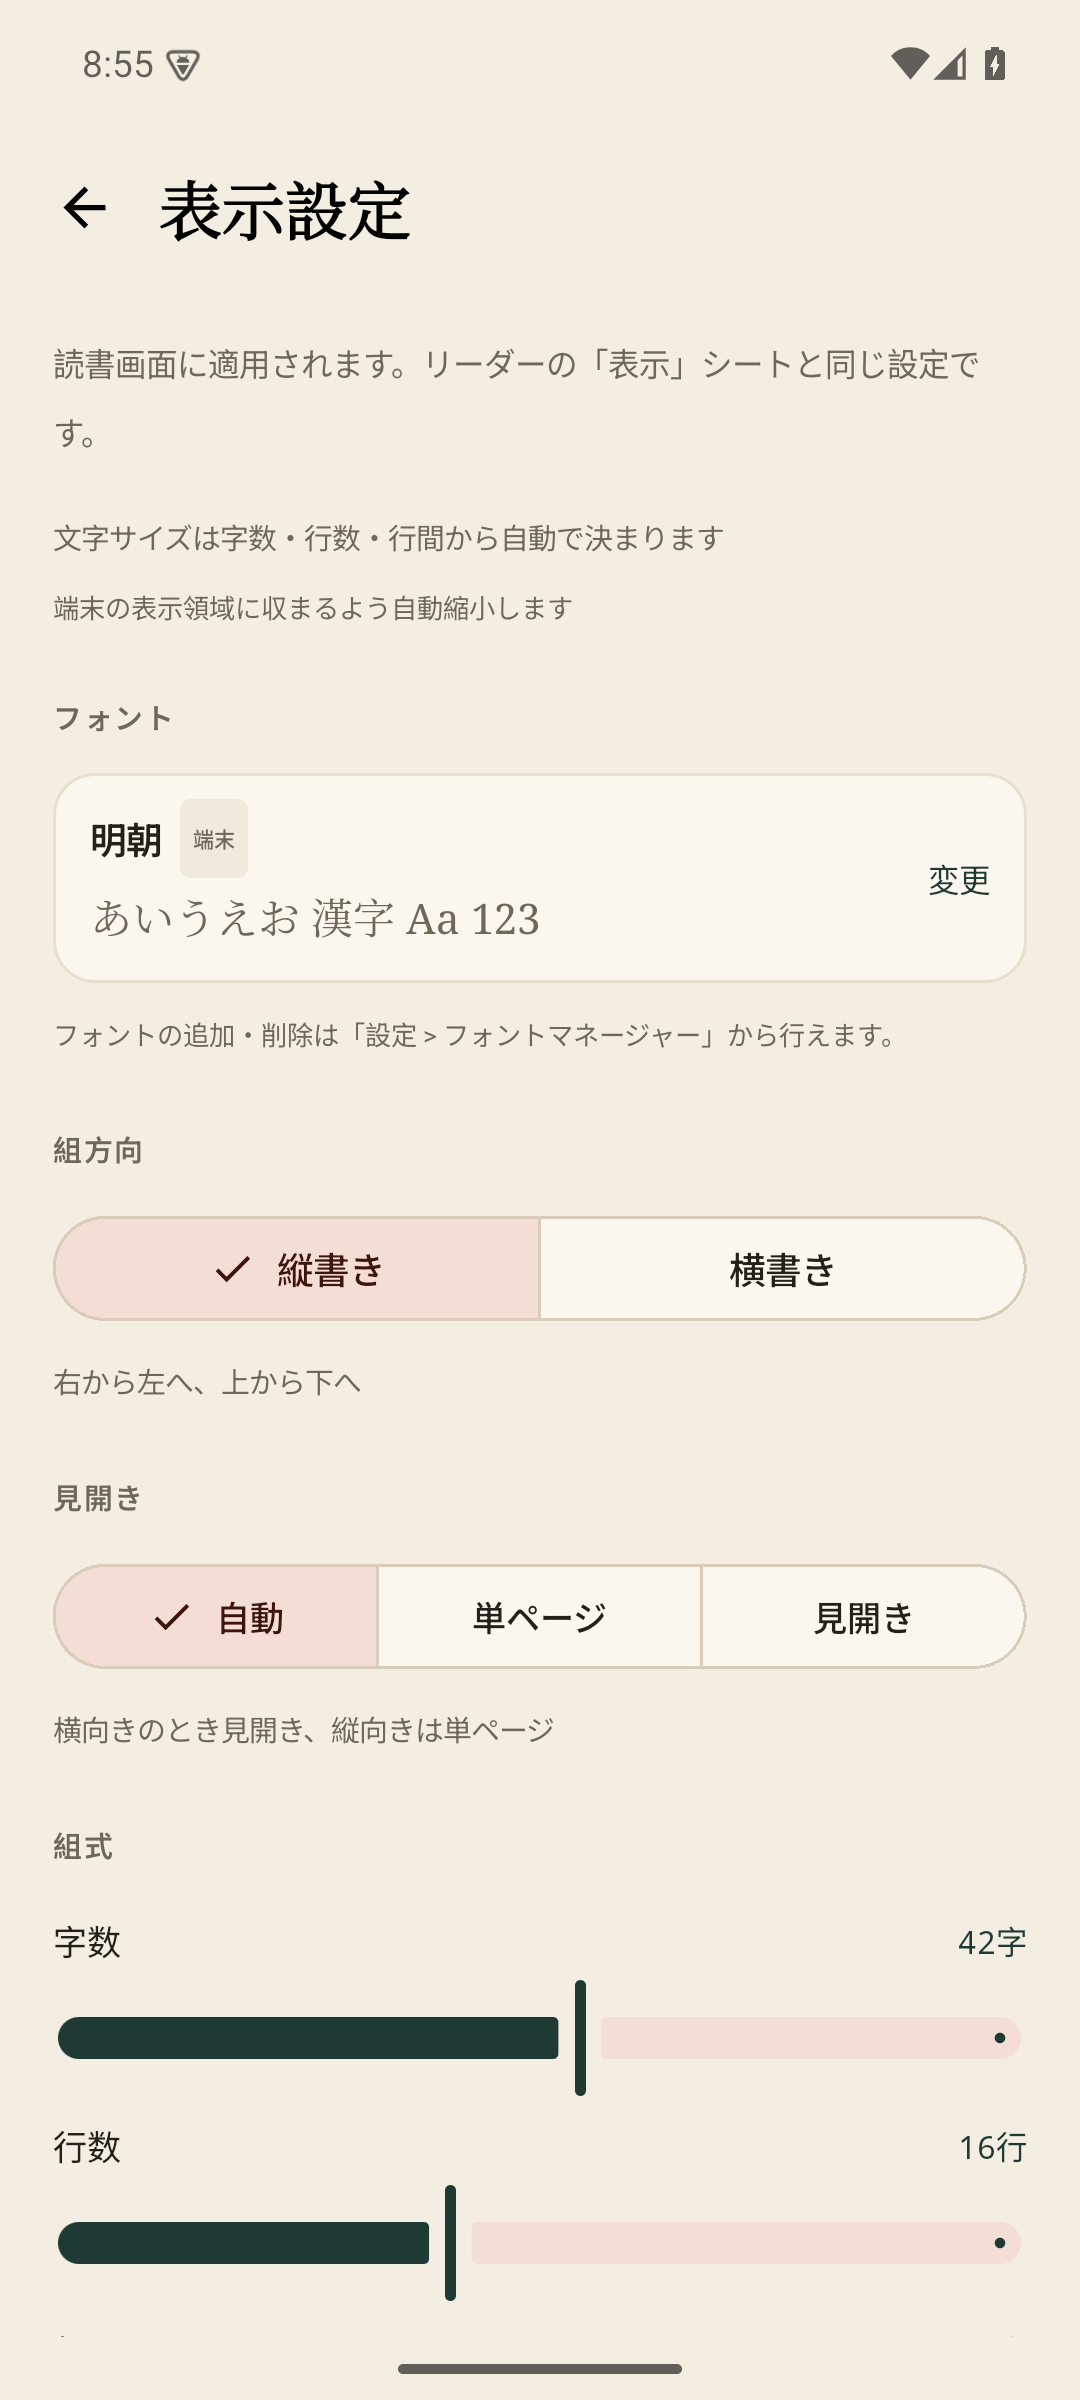
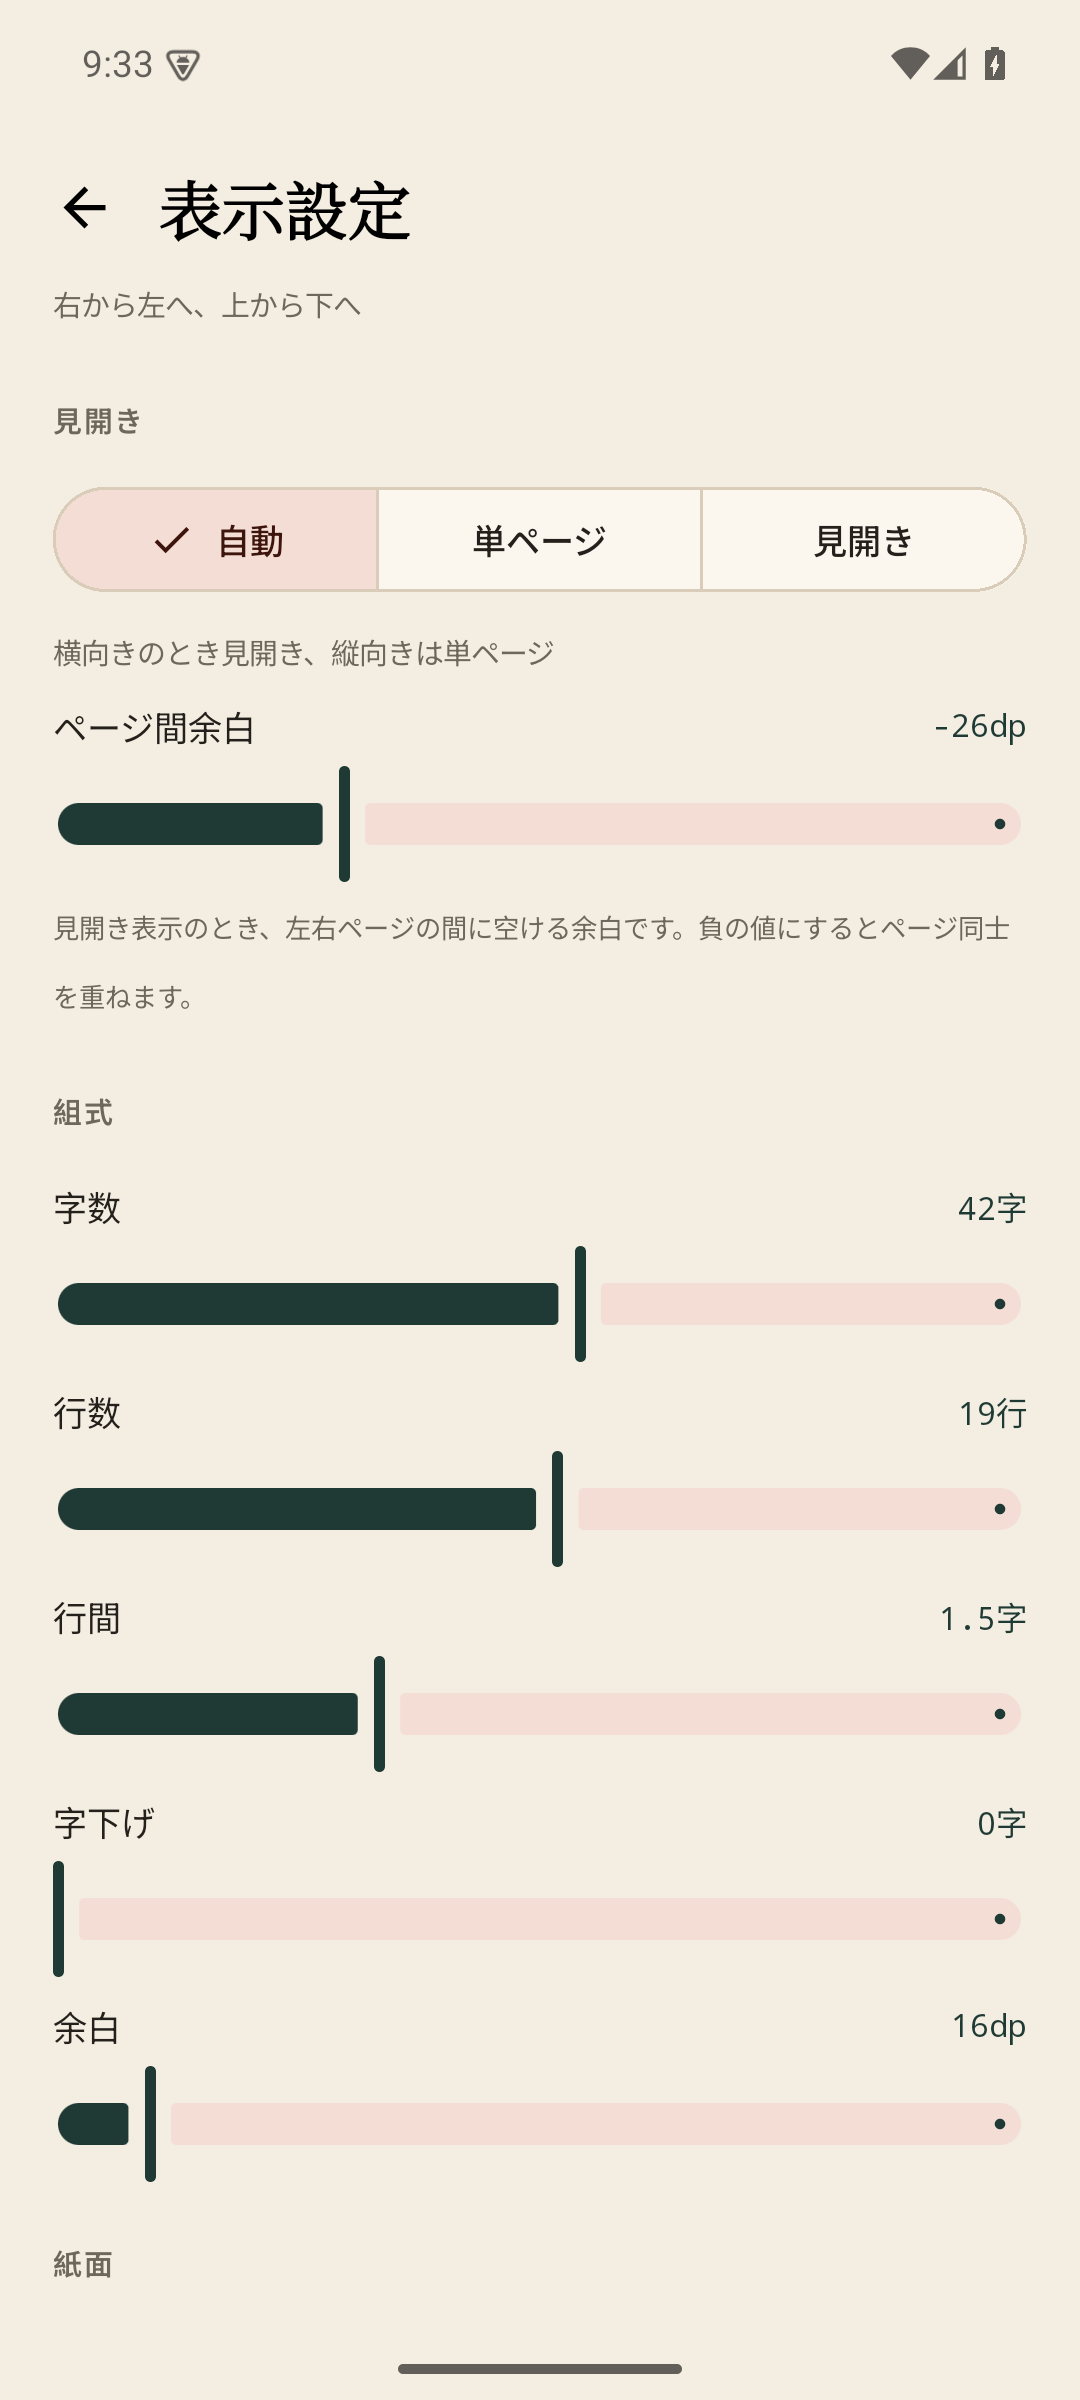
見開き余白の負値と通常余白の拡大に対応
- 見開きのページ間余白を -64〜64dp に拡大
- 負の値では左右ページを中央に寄せて重ね、中央のノド線は非表示
- 通常の余白範囲を 0〜168dp に拡大
- SpreadTest を更新し、SettingsTest を追加
- README とスクリーンショットを更新
- バージョン規則に従い 1.5.0 (546) に更新

diff --git a/app/src/main/java/app/tateyomi/ui/reader/ReaderPage.kt b/app/src/main/java/app/tateyomi/ui/reader/ReaderPage.kt
@@ -11,6 +11,7 @@ import androidx.compose.foundation.layout.RowScope
 import androidx.compose.foundation.layout.Spacer
 import androidx.compose.foundation.layout.fillMaxHeight
 import androidx.compose.foundation.layout.fillMaxSize
+import androidx.compose.foundation.layout.offset
 import androidx.compose.foundation.layout.padding
 import androidx.compose.foundation.layout.width
 import androidx.compose.material3.CircularProgressIndicator
@@ -101,25 +102,29 @@ fun ReaderSpreadView(
     val second = SpreadLayout.secondPage(spreadIndex, layout.totalPages)
     val vertical = layout.settings.vertical
     Box(modifier.background(palette.background)) {
+        val gapDp = layout.settings.spreadGapDp
+        val overlapDp = (-gapDp).coerceAtLeast(0).toFloat()
+        val overlapOffset = (overlapDp / 2f).dp
         Row(Modifier.fillMaxSize()) {
-            val gap = Modifier.width(layout.settings.spreadGapDp.dp)
             if (vertical) {
-                SpreadSlot(second, book, layout, fontSpec, palette)
-                Spacer(gap)
-                SpreadSlot(first, book, layout, fontSpec, palette)
+                SpreadSlot(second, book, layout, fontSpec, palette, overlapOffset)
+                if (gapDp > 0) Spacer(Modifier.width(gapDp.dp))
+                SpreadSlot(first, book, layout, fontSpec, palette, -overlapOffset)
             } else {
-                SpreadSlot(first, book, layout, fontSpec, palette)
-                Spacer(gap)
-                SpreadSlot(second, book, layout, fontSpec, palette)
+                SpreadSlot(first, book, layout, fontSpec, palette, overlapOffset)
+                if (gapDp > 0) Spacer(Modifier.width(gapDp.dp))
+                SpreadSlot(second, book, layout, fontSpec, palette, -overlapOffset)
             }
         }
-        Box(
-            Modifier
-                .align(Alignment.Center)
-                .fillMaxHeight()
-                .width(1.dp)
-                .background(palette.rule.copy(alpha = 0.35f)),
-        )
+        if (gapDp >= 0) {
+            Box(
+                Modifier
+                    .align(Alignment.Center)
+                    .fillMaxHeight()
+                    .width(1.dp)
+                    .background(palette.rule.copy(alpha = 0.35f)),
+            )
+        }
     }
 }
 
@@ -130,8 +135,14 @@ private fun RowScope.SpreadSlot(
     layout: ReaderLayout,
     fontSpec: ReaderFontSpec,
     palette: ReaderPalette,
+    offsetX: androidx.compose.ui.unit.Dp,
 ) {
-    Box(Modifier.weight(1f).fillMaxHeight()) {
+    Box(
+        Modifier
+            .weight(1f)
+            .fillMaxHeight()
+            .offset(x = offsetX),
+    ) {
         if (page != null) {
             ReaderPageView(
                 book = book,

diff --git a/app/src/test/java/app/tateyomi/SpreadTest.kt b/app/src/test/java/app/tateyomi/SpreadTest.kt
@@ -41,7 +41,8 @@ class SpreadTest {
     @Test
     fun spreadGapDefaultsToZeroAndClamps() {
         assertEquals(0, ReaderSettings().spreadGapDp)
-        assertEquals(0, ReaderSettings(spreadGapDp = -10).normalized().spreadGapDp)
+        assertEquals(-10, ReaderSettings(spreadGapDp = -10).normalized().spreadGapDp)
+        assertEquals(-64, ReaderSettings(spreadGapDp = -999).normalized().spreadGapDp)
         assertEquals(64, ReaderSettings(spreadGapDp = 999).normalized().spreadGapDp)
         assertEquals(24, ReaderSettings(spreadGapDp = 24).normalized().spreadGapDp)
     }

diff --git a/app/src/test/java/app/tateyomi/SettingsTest.kt b/app/src/test/java/app/tateyomi/SettingsTest.kt
@@ -1,0 +1,16 @@
+package app.tateyomi
+
+import app.tateyomi.data.ReaderSettings
+import org.junit.Assert.assertEquals
+import org.junit.Test
+
+class SettingsTest {
+
+    @Test
+    fun marginRangeIsZeroTo168() {
+        assertEquals(0, ReaderSettings(marginDp = -1).normalized().marginDp)
+        assertEquals(84, ReaderSettings(marginDp = 84).normalized().marginDp)
+        assertEquals(168, ReaderSettings(marginDp = 168).normalized().marginDp)
+        assertEquals(168, ReaderSettings(marginDp = 999).normalized().marginDp)
+    }
+}

diff --git a/app/src/main/java/app/tateyomi/ui/components/ReaderSettingsContent.kt b/app/src/main/java/app/tateyomi/ui/components/ReaderSettingsContent.kt
@@ -206,7 +206,7 @@ fun ReaderSettingsContent(
             onChange = { onChange(settings.copy(spreadGapDp = it)) },
         )
         Text(
-            text = "見開き表示のとき、左右ページの間に空ける余白です。",
+            text = "見開き表示のとき、左右ページの間に空ける余白です。負の値にするとページ同士を重ねます。",
             fontSize = 10.sp,
             color = palette.muted,
         )

diff --git a/app/src/main/java/app/tateyomi/data/Settings.kt b/app/src/main/java/app/tateyomi/data/Settings.kt
@@ -79,8 +79,8 @@ data class ReaderSettings(
         const val MIN_LINE_SPACING = 1.0f
         const val MAX_LINE_SPACING = 2.5f
         const val MIN_MARGIN = 0
-        const val MAX_MARGIN = 56
-        const val MIN_SPREAD_GAP = 0
+        const val MAX_MARGIN = 168
+        const val MIN_SPREAD_GAP = -64
         const val MAX_SPREAD_GAP = 64
 
         val Default = ReaderSettings()

diff --git a/README.md b/README.md
@@ -54,7 +54,7 @@ WebView や既存の EPUB ビューアを使わず、Compose Canvas 上に日本
 - **見開き表示**
   - 自動（横向きのとき見開き） / 単ページ / 見開き の3モード
   - 縦書きは右ページから左ページへ、横書きは左ページから右ページへ
-  - 左右ページ間の余白（0〜64dp）を表示設定で調整可能
+  - 左右ページ間の余白（-64〜64dp）を表示設定で調整可能。負の値にするとページ同士を重ねます
   - 見開きでも各ページの文字サイズは表示領域に合わせて自動縮小
 - **組式プリセット**
   - 文庫 / 単行本 / 大活字 / 横書き
@@ -73,7 +73,7 @@ WebView や既存の EPUB ビューアを使わず、Compose Canvas 上に日本
   - 読書画面の紙面カラー（生成り / 白 / 夜）とは独立して設定
 - **紙面テーマ**：生成り / 白 / 夜
 - **設定**（本棚右上の歯車、またはリーダー下部の「表示」から）
-  - **表示設定**：組方向、見開き（モード・ページ間余白）、字数・行数・行間・字下げ・余白、フォント、紙面テーマ、プリセット
+  - **表示設定**：組方向、見開き（モード・ページ間余白 -64〜64dp）、字数・行数・行間・字下げ・余白（0〜168dp）、フォント、紙面テーマ、プリセット
   - リーダーの「表示」シートと設定画面の「表示設定」は同じ編集画面を共有
   - **フォントマネージャー**：フォント一覧、TTF / OTF / TTC の追加・削除
   - **アプリ情報**：バージョン、対応形式、プライバシー、オープンソース
@@ -123,7 +123,7 @@ gradle assembleRelease      # 署名なし release APK（R8 有効）
 adb install -r app/build/outputs/apk/debug/app-debug.apk
 ```
 
-ビルド済みの R8 リリース APK はローカルの `dist/tateyomi-1.4.0-debugsigned.apk`
+ビルド済みの R8 リリース APK はローカルの `dist/tateyomi-1.5.0-debugsigned.apk`
 に生成しています（ローカルの debug keystore で署名したテスト用。ストア配布用
 ではありません）。APK などのビルド成果物は Git 管理外です。
 この APK に EPUB は同梱されていません。本棚の「EPUBを追加」から取り込んでください。
